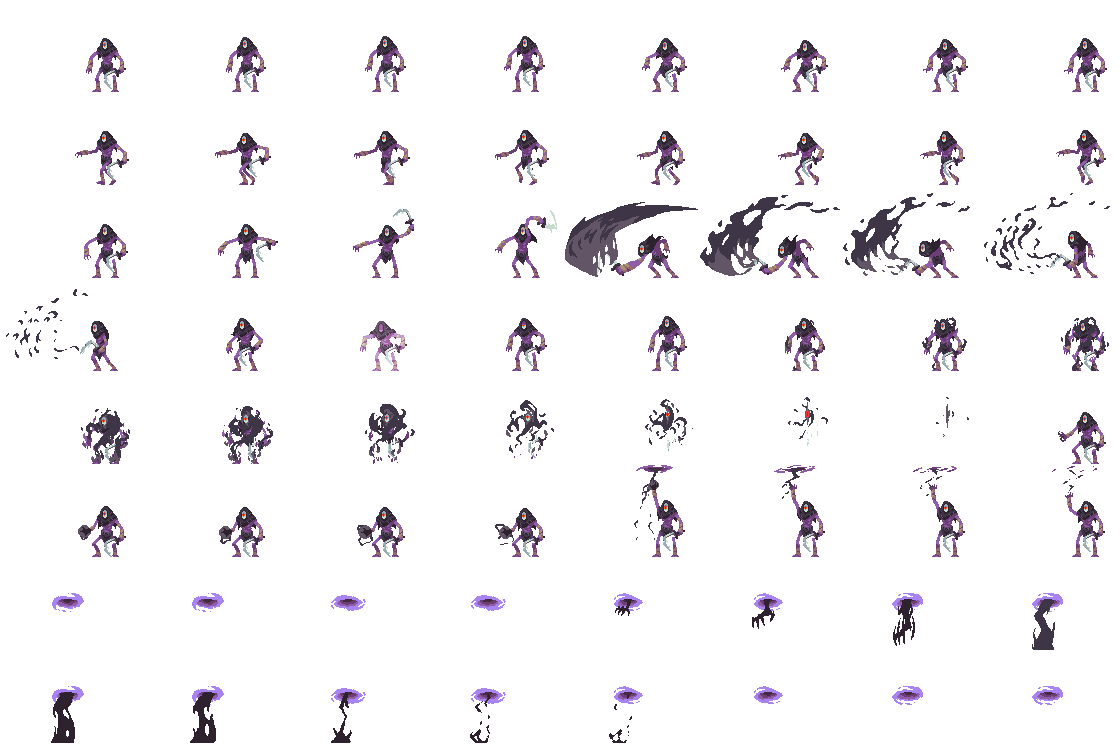
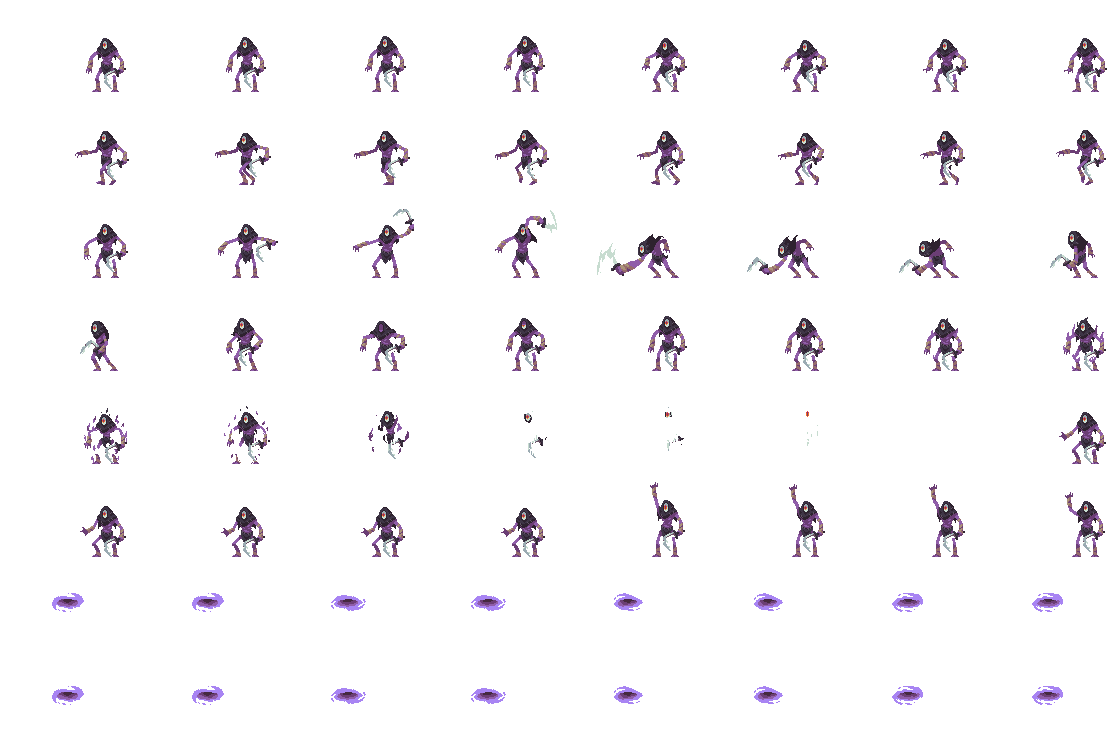
adding

diff --git a/src/game/characters/bringerOfDeath.ts b/src/game/characters/bringerOfDeath.ts
@@ -1,7 +1,16 @@
 import Phaser from 'phaser';
-import { BRINGER_OF_DEATH, BRINGER_OF_DEATH_IDLE } from '@/lib/characters';
+import {
+  BRINGER_OF_DEATH,
+  BRINGER_OF_DEATH_IDLE,
+  BRINGER_OF_DEATH_RUN,
+  Character,
+  Enemy,
+} from '@/lib/characters';
 
 export default class BringerOfDeath extends Phaser.Physics.Arcade.Sprite {
+  private speed: number;
+  private hurt: boolean;
+  private strikeDistance: number;
   constructor(scene: Phaser.Scene, x: number, y: number) {
     super(scene, x, y, BRINGER_OF_DEATH);
     scene.add.existing(this);
@@ -9,9 +18,27 @@ export default class BringerOfDeath extends Phaser.Physics.Arcade.Sprite {
     this.setCollideWorldBounds(true);
     this.setSize(40, 53);
     this.setOffset(85, 40);
+    this.speed = 50;
+    this.hurt = false;
+    this.strikeDistance = 50;
   }
-  update() {
-    this.play(BRINGER_OF_DEATH_IDLE, true);
+  update(character: Character, enemy: Enemy) {
+    this.followCharacter(character);
+  }
+  private followCharacter(character: Character) {
+    if (this.body.deltaX() < 0) {
+      this.setFlipX(false);
+    } else if (this.body.deltaX() > 0) {
+      this.setFlipX(true);
+    }
+    const distanceBetween = Phaser.Math.Distance.Between(character.x, character.y, this.x, this.y);
+    if (this.hurt || distanceBetween <= this.strikeDistance) {
+      this.play(BRINGER_OF_DEATH_IDLE, true);
+      this.setVelocityX(0);
+      return;
+    }
+    this.play(BRINGER_OF_DEATH_RUN, true);
+    this.scene.physics.moveTo(this, character.x, character.y, this.speed);
   }
 }
 
@@ -19,6 +46,11 @@ export function bringerOfDeathAnimations(scene: Phaser.Scene) {
   scene.anims.create({
     key: BRINGER_OF_DEATH_IDLE,
     frames: scene.anims.generateFrameNumbers(BRINGER_OF_DEATH, { start: 0, end: 7 }),
+    frameRate: 10,
+  });
+  scene.anims.create({
+    key: BRINGER_OF_DEATH_RUN,
+    frames: scene.anims.generateFrameNumbers(BRINGER_OF_DEATH, { start: 8, end: 15 }),
     frameRate: 10,
   });
 }

diff --git a/src/game/characters/ElementalistWind.ts b/src/game/characters/ElementalistWind.ts
@@ -46,7 +46,7 @@ export default class ElementalistWind extends Phaser.Physics.Arcade.Sprite {
   }
 }
 
-export class ElementalistWindAttack extends Phaser.Physics.Arcade.Image {
+export class ElementalistWindAttack extends Phaser.Physics.Arcade.Sprite {
   evenBus: Phaser.Events.EventEmitter;
   character: Phaser.Physics.Arcade.Sprite;
   constructor(
@@ -54,13 +54,16 @@ export class ElementalistWindAttack extends Phaser.Physics.Arcade.Image {
     scene: Phaser.Scene,
     eventBus: Phaser.Events.EventEmitter,
   ) {
-    super(scene, character.x, character.y, ELEMENTALIST_ATTACK);
+    super(scene, character.x, character.y, 'hitBox');
     this.evenBus = eventBus;
     this.character = character;
+    this.setAlpha(0);
     scene.physics.add.existing(this);
-    this.enableBody(false, this.x, this.y, false, false);
+    scene.add.existing(this);
+    this.setCollideWorldBounds(true);
     this.setCircle(5);
     this.setGravityY(-GRAVITY);
+    this.enableBody(true, this.x, this.y, true, true);
     this.evenBus.on(ELEMENTALIST_ATTACK, () => {
       this.enableBody(true, this.x, this.y, true, true);
     });

diff --git a/src/game/scenes/boot.ts b/src/game/scenes/boot.ts
@@ -6,6 +6,7 @@ import DungeonMap1 from '@/game/assets/dungeon.json';
 import TileSet1 from '@/game/assets/dungeon_tileset.png';
 import ElementalistWind from '@/game/assets/wind_sprite_sheet_224x112.png';
 import BringerOfDeath from '@/game/assets/bringer_of_death.png';
+import HitBox from '@/game/assets/shuruken.png';
 
 export default class BootScene extends Phaser.Scene {
   constructor() {
@@ -20,6 +21,7 @@ export default class BootScene extends Phaser.Scene {
     const centerX = width / 2;
     const centerY = height / 2;
 
+    this.load.image('hitBox', HitBox);
     this.load.image(TILE_SET_1, TileSet1);
     this.load.tilemapTiledJSON(LEVEL_1, DungeonMap1);
     this.load.spritesheet(ELEMENTALIST_WIND, ElementalistWind, {

diff --git a/src/lib/characters.ts b/src/lib/characters.ts
@@ -45,6 +45,8 @@ export interface Character {
   attacking: boolean;
   speed: number;
   eventBus: Phaser.Events.EventEmitter;
+  x: number;
+  y: number;
   setFlipX(bool: boolean): this;
   update(): void;
   setVelocityY(y: number): this;
@@ -63,6 +65,13 @@ export interface Body {
     x: number;
     y: number;
   };
+}
+
+export interface Enemy {
+  x: number;
+  y: number;
+  scene: Phaser.Scene;
+  update(character: Character, enemy: Enemy): void;
 }
 
 export function combat(character: Character, inputs: InputControls) {

diff --git a/src/game/scenes/dungeon.ts b/src/game/scenes/dungeon.ts
@@ -64,7 +64,7 @@ export default class DungeonScene extends Phaser.Scene {
       skill.update();
     });
     this.enemiesGroup.getChildren().forEach((enemy) => {
-      enemy.update();
+      enemy.update(this.character);
     });
   }
 }
